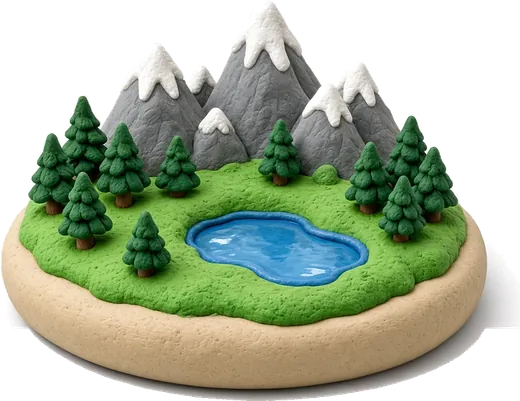
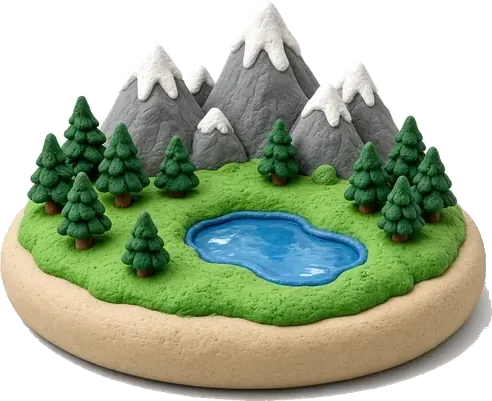
Clean the diorama edge and start every long filter group closed.
The header privacy line is gone. Heritage and health each keep the choices that used to sit in their own groups, with the same match answers.

diff --git a/web/src/components/InterviewWizard.tsx b/web/src/components/InterviewWizard.tsx
@@ -11,7 +11,7 @@ import {
   type DifferentiationProfile,
 } from '@/lib/differentiation';
 import { InterviewAnswersSchema, type InterviewAnswers } from '@/lib/interviewMatcher';
-import { ACTIVITY_QUESTIONS, SPECIAL_CRITERIA, SPECIAL_CRITERIA_CATEGORIES, TARGET_SCHOOL_TYPES } from '@/lib/interviewQuestions';
+import { ACTIVITY_QUESTIONS, SPECIAL_CRITERIA, TARGET_SCHOOL_TYPES } from '@/lib/interviewQuestions';
 import type { StudentAward } from '@/lib/studentCatalog';
 
 const KEPT_UNIQUE_CRITERIA = new Set(['chronic_health', 'black_african_american', 'hispanic_latino']);
@@ -19,10 +19,6 @@ const UNIQUE_LABELS: Record<string, string> = {
   chronic_health: 'Long-term health issue',
   black_african_american: 'Black or African American',
   hispanic_latino: 'Hispanic or Latino',
-};
-const UNIQUE_SECTIONS: Record<string, { title: string; hint: string }> = {
-  'Health & Hardships': { title: 'Long-term health', hint: 'Share only what you want. You can skip this.' },
-  'Demographics & Identity': { title: 'More about you', hint: 'Share only what you want. You can skip this.' },
 };
 const FAMILY_MONEY_OPTIONS = [
   ['yes', 'Yes'],
@@ -142,7 +138,7 @@ export default function InterviewWizard({ awards, initialAnswers, onComplete, on
             ))}
           </ChipRow>
         </Section>
-        <FilterGroups ids={['plans', 'first-gen', 'identity', 'sports']} groups={groups} profile={profile} onToggle={(chip) => { setProfile((current) => toggleDifferentiation(current, chip)); setError(''); }} />
+        <FilterGroups ids={['plans', 'first-gen', 'identity', 'sports']} groups={groups} profile={profile} onToggle={(chip) => { setProfile((current) => toggleDifferentiation(current, chip)); setError(''); }} extras={{ identity: uniqueExtra('Demographics & Identity', uniqueCriteria, (id) => toggleValue(id, uniqueCriteria, setUniqueCriteria)) }} />
         <Section title="Things you do" hint="Pick any that fit you. You can skip these.">
           <ChipRow>
             {ACTIVITY_QUESTIONS.map((item) => (
@@ -150,22 +146,7 @@ export default function InterviewWizard({ awards, initialAnswers, onComplete, on
             ))}
           </ChipRow>
         </Section>
-        <FilterGroups ids={['family', 'health']} groups={groups} profile={profile} onToggle={(chip) => { setProfile((current) => toggleDifferentiation(current, chip)); setError(''); }} />
-
-        {SPECIAL_CRITERIA_CATEGORIES.map((category) => {
-          const items = SPECIAL_CRITERIA.filter((item) => item.category === category).map((item) => item).filter((item) => KEPT_UNIQUE_CRITERIA.has(item.id));
-          if (items.length === 0) return null;
-          const copy = UNIQUE_SECTIONS[category] ?? { title: category, hint: 'Share only what you want. You can skip this.' };
-          return (
-            <Section key={category} title={copy.title} hint={copy.hint}>
-              <ChipRow>
-                {items.map((item) => (
-                  <LightChip key={item.id} id={item.controlId} label={UNIQUE_LABELS[item.id] ?? item.label} checked={uniqueCriteria.includes(item.id)} onChange={() => toggleValue(item.id, uniqueCriteria, setUniqueCriteria)} />
-                ))}
-              </ChipRow>
-            </Section>
-          );
-        })}
+        <FilterGroups ids={['family', 'health']} groups={groups} profile={profile} onToggle={(chip) => { setProfile((current) => toggleDifferentiation(current, chip)); setError(''); }} extras={{ health: uniqueExtra('Health & Hardships', uniqueCriteria, (id) => toggleValue(id, uniqueCriteria, setUniqueCriteria)) }} />
         <FilterGroups ids={['community-orgs', 'school-clubs', 'aviation-groups', 'employers']} groups={groups} profile={profile} onToggle={(chip) => { setProfile((current) => toggleDifferentiation(current, chip)); setError(''); }} />
       </div>
 
@@ -177,10 +158,24 @@ export default function InterviewWizard({ awards, initialAnswers, onComplete, on
   );
 }
 
-function FilterGroups({ ids, groups, profile, onToggle }: { ids: readonly string[]; groups: ReturnType<typeof differentiationGroups>; profile: DifferentiationProfile; onToggle: (chip: Parameters<typeof toggleDifferentiation>[1]) => void }) {
+function keptUnique(category: string) {
+  return SPECIAL_CRITERIA.filter((item) => item.category === category).map((item) => item).filter((item) => KEPT_UNIQUE_CRITERIA.has(item.id));
+}
+
+function uniqueExtra(category: string, selected: readonly string[], onToggle: (id: (typeof SPECIAL_CRITERIA)[number]['id']) => void) {
+  const items = keptUnique(category);
+  return {
+    selected: items.filter((item) => selected.includes(item.id)).length,
+    node: items.map((item) => (
+      <LightChip key={item.id} id={item.controlId} label={UNIQUE_LABELS[item.id] ?? item.label} checked={selected.includes(item.id)} onChange={() => onToggle(item.id)} />
+    )),
+  };
+}
+
+function FilterGroups({ ids, groups, profile, onToggle, extras }: { ids: readonly string[]; groups: ReturnType<typeof differentiationGroups>; profile: DifferentiationProfile; onToggle: (chip: Parameters<typeof toggleDifferentiation>[1]) => void; extras?: Readonly<Record<string, { selected: number; node: ReactNode }>> }) {
   const picked = ids.map((id) => groups.find((group) => group.id === id)).filter((group) => group != null);
   if (picked.length === 0) return null;
-  return <DifferentiationStep groups={picked} profile={profile} onToggle={onToggle} />;
+  return <DifferentiationStep groups={picked} profile={profile} onToggle={onToggle} extras={extras} />;
 }
 
 function Section({ title, hint, required = false, children }: { title: string; hint: string; required?: boolean; children: ReactNode }) {

diff --git a/web/src/components/steps/DifferentiationStep.tsx b/web/src/components/steps/DifferentiationStep.tsx
@@ -1,6 +1,6 @@
 'use client';
 
-import { useState } from 'react';
+import { useState, type ReactNode } from 'react';
 import {
   chipSelected,
   type DifferentiationChip,
@@ -12,31 +12,29 @@ type Props = {
   groups: readonly DifferentiationGroup[];
   profile: DifferentiationProfile;
   onToggle: (chip: DifferentiationChip) => void;
+  extras?: Readonly<Record<string, { selected: number; node: ReactNode }>>;
 };
 
 function chipId(groupId: string, chip: DifferentiationChip): string {
   return `diff-${groupId}-${chip.field}-${chip.value}`.replace(/[^a-z0-9-]+/gi, '-').toLowerCase();
 }
 
-const NICHE_START_CLOSED = new Set(['school-clubs', 'aviation-groups', 'employers']);
+const ALWAYS_COLLAPSIBLE = new Set(['school-clubs', 'aviation-groups', 'employers']);
 const MANY_CHIPS = 8;
 
 function canCollapse(group: DifferentiationGroup): boolean {
-  return group.chips.length >= MANY_CHIPS || NICHE_START_CLOSED.has(group.id);
+  return group.chips.length >= MANY_CHIPS || ALWAYS_COLLAPSIBLE.has(group.id);
 }
 
-function startsClosed(group: DifferentiationGroup): boolean {
-  return NICHE_START_CLOSED.has(group.id);
-}
-
-export default function DifferentiationStep({ groups, profile, onToggle }: Props) {
+export default function DifferentiationStep({ groups, profile, onToggle, extras }: Props) {
   const [openIds, setOpenIds] = useState<Record<string, boolean>>({});
   return (
     <div className="card-stack mt-4">
       {groups.map((group) => {
         const collapsible = canCollapse(group);
-        const open = !collapsible || (group.id in openIds ? openIds[group.id] : !startsClosed(group));
-        const selected = group.chips.filter((chip) => chipSelected(profile, chip)).length;
+        const open = collapsible ? openIds[group.id] === true : true;
+        const extra = extras?.[group.id];
+        const selected = group.chips.filter((chip) => chipSelected(profile, chip)).length + (extra?.selected ?? 0);
         const panelId = `diff-panel-${group.id}`;
         return (
         <fieldset key={group.id} className="bare-fieldset">
@@ -106,6 +104,7 @@ export default function DifferentiationStep({ groups, profile, onToggle }: Props
                   </label>
                 );
               })}
+              {extra?.node}
             </div>
           )}
           </div>

diff --git a/web/src/app/page.tsx b/web/src/app/page.tsx
@@ -9,11 +9,10 @@ export default function Home() {
       <header className="topbar">
         <div className="topbar-inner">
           <h1 className="topbar-title">Whitefish Scholarship Finder</h1>
-          <p className="topbar-note">No account. We never keep your information.</p>
         </div>
       </header>
       <main id="main-content" tabIndex={-1} className="stage">
-        <img className="diorama" src="/scene/diorama.webp" alt="" width={520} height={401} />
+        <img className="diorama" src="/scene/diorama.webp" alt="" width={492} height={401} />
         <ScholarshipBrowser />
       </main>
       <footer className="app-footer">
